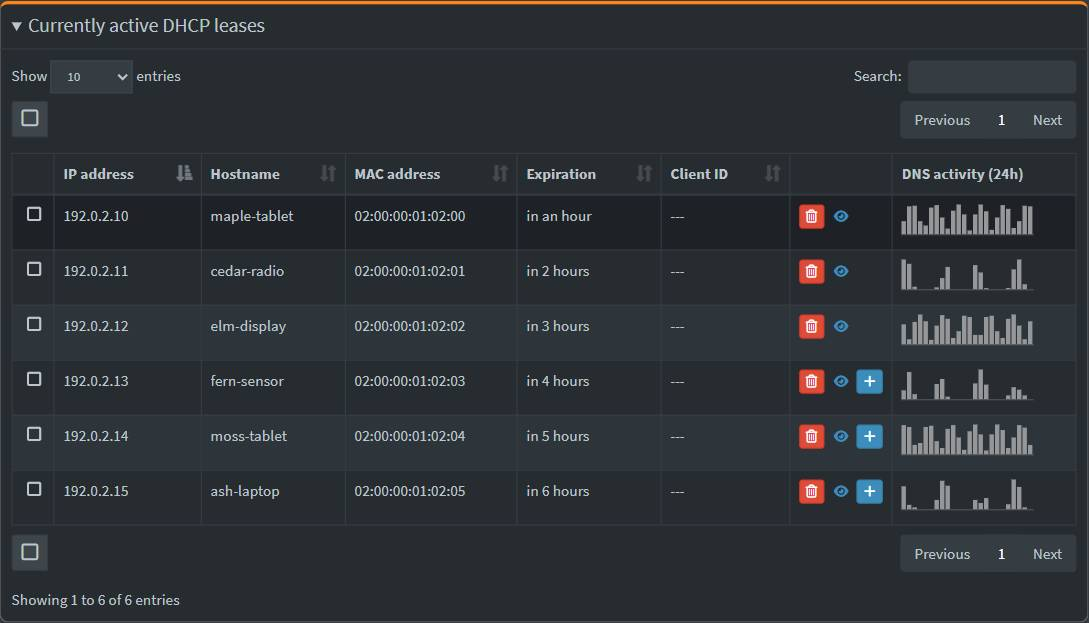
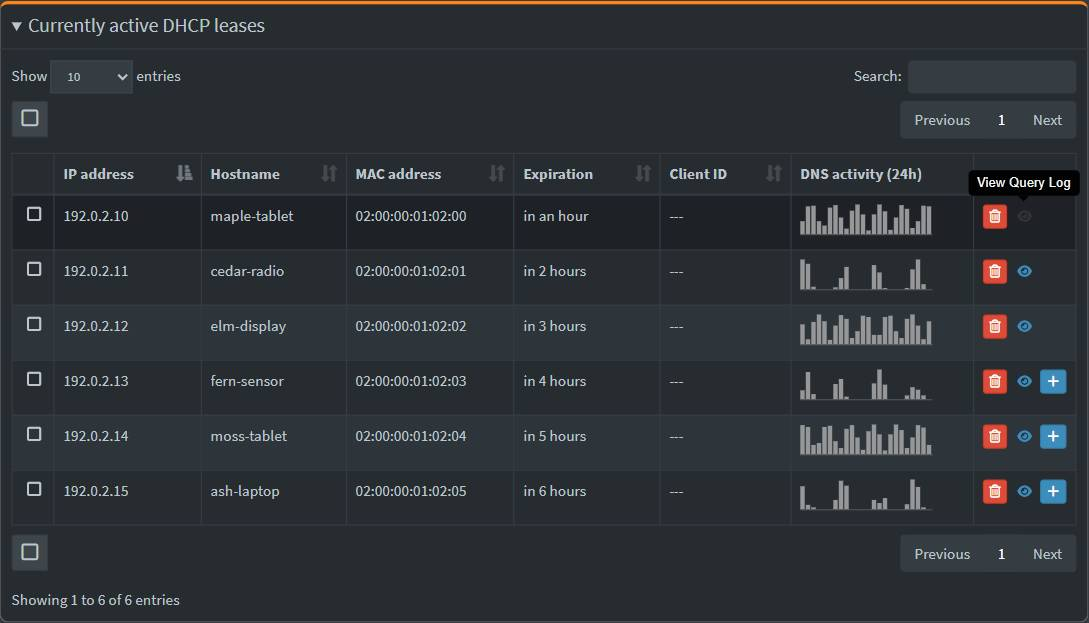
Place DHCP activity immediately after Client ID

diff --git a/README.md b/README.md
@@ -66,7 +66,7 @@ Select the eye beside an active lease or static reservation to see queries from 
 3. Edit the draft. Select the checkmark to confirm it or the curved arrow to cancel it.
 4. Select **Save & Apply** to save the confirmed reservation.
 
-The rightmost **DNS activity (24h)** column shows one hourly bar per active lease for the past day. Hover over a slot for its UTC interval and query count. A dash means Pi-hole has no per-IP history for that lease.
+The **DNS activity (24h)** column immediately after **Client ID** shows one hourly bar per active lease for the past day. Hover over a slot for its UTC interval and query count. A dash means Pi-hole has no per-IP history for that lease.
 
 In this example, the top three devices already have reservations. The bottom three have a **+** button.
 
